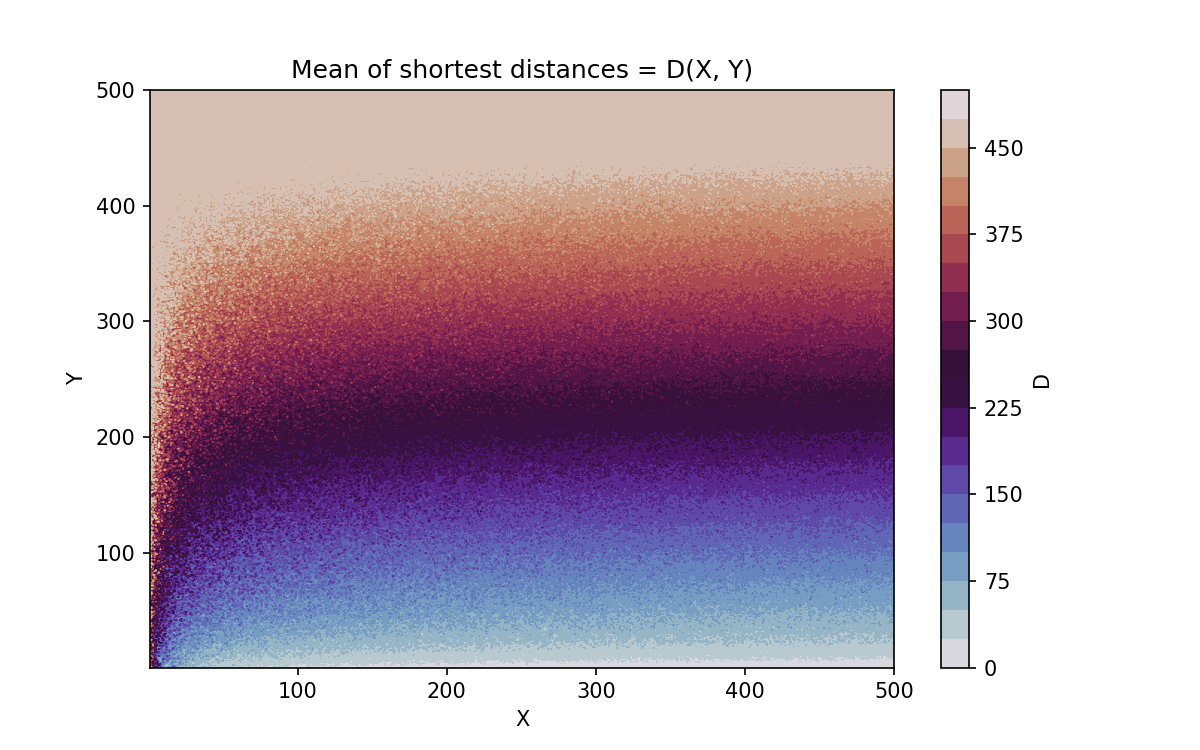
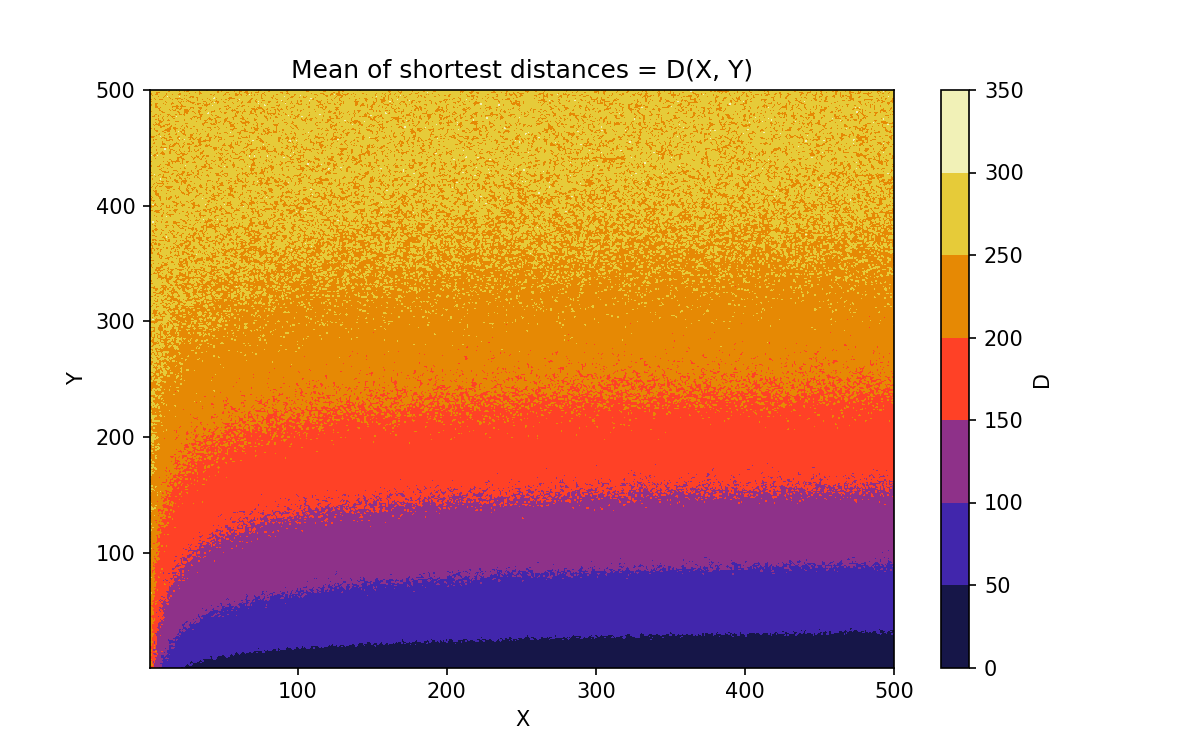
Asher Chen commited at 2023-01-14_00-04-29

diff --git a/test/p_n-1000_x-1-500_y-1-500.py b/test/p_n-1000_x-1-500_y-1-500.py
@@ -1,18 +1,17 @@
 import numpy as np
 import matplotlib.pyplot as plt
-import matplotlib.cm as cm
-import pandas as pd
+from pandas import read_csv
+from math import ceil
 
 # input
 #
-data = pd.read_csv('private/d_n-1000_x-1-500_y-1-500.csv')
+data = read_csv('output/d_n-1000_x-1-500_y-1-500.csv')
 
 # prepare
 #
 x_min, x_max = 1, 500
 y_min, y_max = 1, 500
 x_cnt, y_cnt = x_max - x_min + 1, y_max - y_min + 1
-d_cnt = 10
 
 x, y = np.meshgrid(
   np.linspace(x_min, x_max, x_cnt),
@@ -27,7 +26,7 @@ d = np.reshape(
 # plot
 #
 fig = plt.figure(figsize=(8, 5))
-plt.contourf(x, y, d, cmap='twilight', levels = np.linspace(0, 500, d_cnt + 1))
+plt.contourf(x, y, d, cmap='CMRmap')
 
 # label
 #

diff --git a/test/p_n-1000_x-1-500.py b/test/p_n-1000_x-1-500.py
@@ -1,11 +1,10 @@
 import numpy as np
 import matplotlib.pyplot as plt
-import matplotlib.cm as cm
 from pandas import read_csv
 
 # input
 #
-data = read_csv('private/d_n-1000_x-1-500_y-1-500.csv')
+data = read_csv('output/d_n-1000_x-1-500_y-1-500.csv')
 
 # prepare
 #

diff --git a/test/p_n-1000_y-1-500.py b/test/p_n-1000_y-1-500.py
@@ -1,11 +1,10 @@
 import numpy as np
 import matplotlib.pyplot as plt
-import matplotlib.cm as cm
 from pandas import read_csv
 
 # input
 #
-data = read_csv('private/d_n-1000_x-1-500_y-1-500.csv')
+data = read_csv('output/d_n-1000_x-1-500_y-1-500.csv')
 
 # prepare
 #
